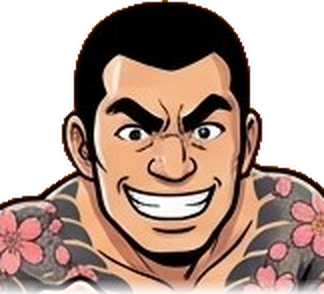
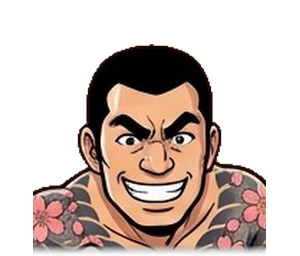
キャラの顔の大きさをそろえる、流局の「テンパイ」が読めない色を修正、チーの組み合わせをマウスで選べるようにする、次の局で勝っている人は意気込み・負けている人は悔しがるセリフを追加
Claude-Session: https://claude.ai/code/session_015fwoRN5EZXb2K7SzR6LxUP

diff --git a/mahjong/js/banter.js b/mahjong/js/banter.js
@@ -275,6 +275,28 @@
     '誰が勝つかな。', '空気が変わってきたな。', 'ほう…静かな局だ。', '一気に流れが来る予感がする。…気のせいかな。', 'さて、誰が先に動くかな?', 'みんな、顔が固いぞ?',
   ];
 
+
+  /* 次の局の開始: 点数で勝っている人は意気込み・煽り、負けている人は悔しがる(点数は公開情報なので、答えバレにはならない) */
+  const LT = {
+    1: { lead: ['ほっほっほ、流れは良いようじゃ。', 'この調子で参りますぞ。', '{n}さん、ご覚悟なされよ。'], trail: ['むむ、少々押されておりますな。', 'ここから巻き返しますぞ。', 'わしとしたことが…!'] },
+    2: { lead: ['おうおう、風向きがいいぜ!', 'この桜吹雪で、まとめて裁いてやらあ!', '{n}、ぼやぼやしてると置いてくぜ!'], trail: ['くそっ、このままじゃ引き下がれねえ!', 'ちっ、ツキがねえな…!', 'ここからが本番でい!'] },
+    3: { lead: ['うむ、公正な勝負の結果ですな。', 'このまま堅く参りましょう。', '{n}殿、油断は禁物ですぞ。'], trail: ['不覚…! 次は取り返しますぞ。', 'いささか分が悪いですな。', '裁きは、これからですぞ!'] },
+    4: { lead: ['へへっ、いただきだぜ!', 'ひょいひょい稼いでるぜ!', '{n}、財布の紐を締めときな!'], trail: ['くそぉ、盗まれた気分だ…!', 'ちぇっ、ついてねえや!', '次は、きっちり盗み返すぜ!'] },
+    5: { lead: ['ふん、天下布武よ。', '余の勝ちは動かぬ。', '{n}、ひれ伏すがよい!'], trail: ['おのれ…! このままでは終わらぬ!', '是非に及ばず、か…いや、まだだ!', '余を怒らせたな…!'] },
+    6: { lead: ['わっはっは、ええ調子やなあ!', '天下を取る勢いやで!', '{n}はん、わしについてこんかい!'], trail: ['ありゃりゃ、負けとるやないか!', 'くぅ〜、悔しいのう!', 'ここから大逆転や!'] },
+    7: { lead: ['ふむ、焦らず勝ちを固めよう。', '待った甲斐があったな。', '{n}殿、まだまだ長丁場ぞ。'], trail: ['鳴くまで待とう、ホトトギス…', 'いまは耐えるときだ。', 'むう…ここは我慢か。'] },
+    8: { lead: ['風林火山、勢いはこちらにある。', '動かざること山の如し。勝ちは動かぬ。', '{n}、疾きこと風の如くいくぞ!'], trail: ['不覚…! だが、まだ終わらぬ。', '我が軍、立て直す!', '次こそ、本陣を突く!'] },
+    9: { lead: ['よし、いい風が吹いてきたぜよ!', '世界の夜明けぜよ!', '{n}さん、ついてくるぜよ!'], trail: ['ありゃー、負けちょるぜよ…!', 'くぅっ、悔しいぜよ!', 'ここからが勝負ぜよ!'] },
+    10: { lead: ['おいどんの勝ちでごわす。', 'この調子でいくでごわす!', '{n}どん、よか勝負でごわした。'], trail: ['むむ、押されとるでごわす…', 'おいどん、まだまだでごわす!', '悔しかぁ…!'] },
+    11: { lead: ['誠の一字、勝ちを貫く。', '斬り込むぜ、このまま!', '{n}、覚悟しておけ。'], trail: ['くっ…斬られたか。', 'このままでは終われん。', '次は、必ず斬る!'] },
+    12: { lead: ['ふふ、冷静に勝ちを積んでいますよ。', '大局は、こちらにあります。', '{n}さん、焦りは禁物ですよ。'], trail: ['ほう、少し分が悪いですな。', 'ここは静かに巻き返しましょう。', '悔しいが、まだ先は長い。'] },
+    13: { lead: ['まあ、ようございましたわ。', '物語は、よい方へ進んでおります。', '{n}さん、いかがでしょう?'], trail: ['あら…つらい展開ですわ。', 'この続きは、きっと私に。', '悔しゅうございます…。'] },
+    14: { lead: ['ふふ、舞うように勝てております。', 'このまま、舞い続けますわ。', '{n}さん、お先に失礼しますね。'], trail: ['あら、少し押されております…。', 'まだ舞は終わりません。', '悔しいですわ…!'] },
+    15: { lead: ['うふふ、わたくしの勝ちですわね。', '花は、わたくしに微笑むのよ。', '{n}さん、ご覧になって?'], trail: ['あら…わたくしが負けるなんて。', '悔しいわ…次は負けません。', '花は、まだ散らないわ!'] },
+    16: { lead: ['当然ね。女王に敗北はないの。', 'ひれ伏しなさい、{n}。', 'このまま、全てをいただくわ。'], trail: ['わたくしが負けている…? 許せないわ!', 'ここから女王の逆襲よ!', '無礼な…覚えておきなさい!'] },
+  };
+
+  Object.keys(LT).forEach((k) => { if (L[k]) Object.assign(L[k], LT[k]); });
   const hist = {}; // キャラごとの直近の発言(同じセリフが続かないように)
   let lastAt = 0, started = 0;
   const pick = (a) => a[Math.floor(Math.random() * a.length)];
@@ -314,7 +336,23 @@
     anyCpu(game, except) { const c = B.cpus(game, except); return c.length ? pick(c) : null; },
 
     /* ---- 場面ごとの入口(game.js から呼ぶ)。出るかどうかは手牌と無関係な固定確率 ---- */
-    handStart(game) { if (Math.random() < 0.6) setTimeout(() => B.say(game, B.anyCpu(game), 'start', { force: true }), 900); },
+    handStart(game) {
+      const first = game.kyoku === 0 && game.honba === 0;
+      const cpus = B.cpus(game);
+      if (!first && cpus.length) {
+        // 2局目からは、勝っている人は意気込み、負けている人は悔しがる(いちばん勝っている人と、いちばん負けている人)
+        const sorted = cpus.slice().sort((a, b) => b.score - a.score);
+        const top = sorted[0], low = sorted[sorted.length - 1];
+        const base = MJ.RULES.start || 25000;
+        const out = [];
+        if (top.score > base) out.push([top, 'lead']);
+        if (low !== top && low.score < base) out.push([low, 'trail']);
+        if (!out.length && top.score !== low.score) out.push([top.score >= low.score ? top : low, top.score > low.score ? 'lead' : 'trail']);
+        out.forEach(([p, kind], i) => setTimeout(() => B.say(game, p, kind, { force: true }), 900 + i * 1700));
+        return;
+      }
+      if (Math.random() < 0.6) setTimeout(() => B.say(game, B.anyCpu(game), 'start', { force: true }), 900);
+    },
     discard(game, p, tile) {
       if (p.isHuman) {
         const t = tile.t;

diff --git a/mahjong/js/ui.js b/mahjong/js/ui.js
@@ -20,6 +20,8 @@
       });
       const M = $('#mine');
       M.addEventListener('click', (e) => {
+        const cb = e.target.closest('.cq-cb');
+        if (cb) { this.setChi(+cb.dataset.i); const cbtn = document.querySelector('.callq .cq-btn[data-act=chi]'); if (cbtn) this.onAction(cbtn); return; }
         const b = e.target.closest('button[data-act]');
         if (b) return this.onAction(b);
         const tl = e.target.closest('.hand .tile[data-id]');
@@ -616,7 +618,9 @@
       });
       if (o.ron) btns.push(`<button class="btn b-ron cq-btn" data-act="ron">ロン${brief && brief.rec === 'ron' ? recTag : ''}</button>`);
       btns.push(`<button class="btn b-pass cq-btn" data-act="pass">見送る${brief && brief.rec === 'pass' ? recTag : ''}</button>`); // 見送るは、いちばん右
-      const multiNote = chis.length > 1 ? '光る牌でチー。牌をさわると、組み合わせを変えられます' : '';
+      // チーの組み合わせが複数あるときは、マウスでも選べるように、組み合わせごとのボタンを出す(押すと、その組み合わせでチー)
+      const ct = o.tile.t;
+      const multiNote = chis.length > 1 ? `<span class="cq-cl">チーの組み合わせ</span>${chis.map((x, i) => `<span class="cq-cb" data-i="${i}">${[x.a, x.b, ct].sort((p, q) => p - q).map((t) => MJ.tileHTML(t, 't-xs' + (t === ct ? ' cq-called' : ''))).join('')}</span>`).join('')}` : '';
       const note = multiNote || (!o.ron && !cand.opts.length ? (o.ronBlock === 'furiten' ? 'フリテンのためロンできません' : o.ronBlock === 'noyaku' ? '役がないためロンできません' : '') : '');
       return `<div class="callq"><div class="cq-btns">${btns.join('')}</div>${note ? `<div class="cq-note">${note}</div>` : ''}<div class="cq-keys"><span class="cq-pk">◀▶ でえらんで <b data-k="A">A</b> で決定</span><span class="cq-pt">◀▶ で牌をえらんで <b data-k="A">A</b> で決定(▲ もどる)</span></div></div>`;
     },

diff --git a/mahjong/simple.css b/mahjong/simple.css
@@ -337,3 +337,11 @@ img.tcut { height: 84px; width: auto; display: block; flex: none; filter: drop-s
 
 /* 先生をつけますか?: えらんでいる方だけを目立たせる(選んでいない方は、ふつうの色) */
 #overlay .tc-b:not(.pf) { background: #2d4a40 !important; color: #e8f2ec !important; border: 2px solid #5f8a79 !important; box-shadow: none !important; }
+
+/* チーの組み合わせが複数あるとき: 組み合わせごとのボタン(マウス・タッチで、直接えらべる) */
+.callq .cq-note { display: flex; align-items: center; gap: 10px; max-width: none; }
+.cq-cl { font-size: 15px; }
+.cq-cb { display: inline-flex; align-items: center; gap: 1px; padding: 4px 10px; border-radius: 10px; background: #2d4a40; border: 2px solid #ffd23f; cursor: pointer; font-size: 20px; }
+.cq-cb:hover { background: #ffd23f; }
+.cq-cb .tile.cq-called { outline: 3px solid #ff5b8a; }
+.dr-s .gl { color: inherit !important; }
